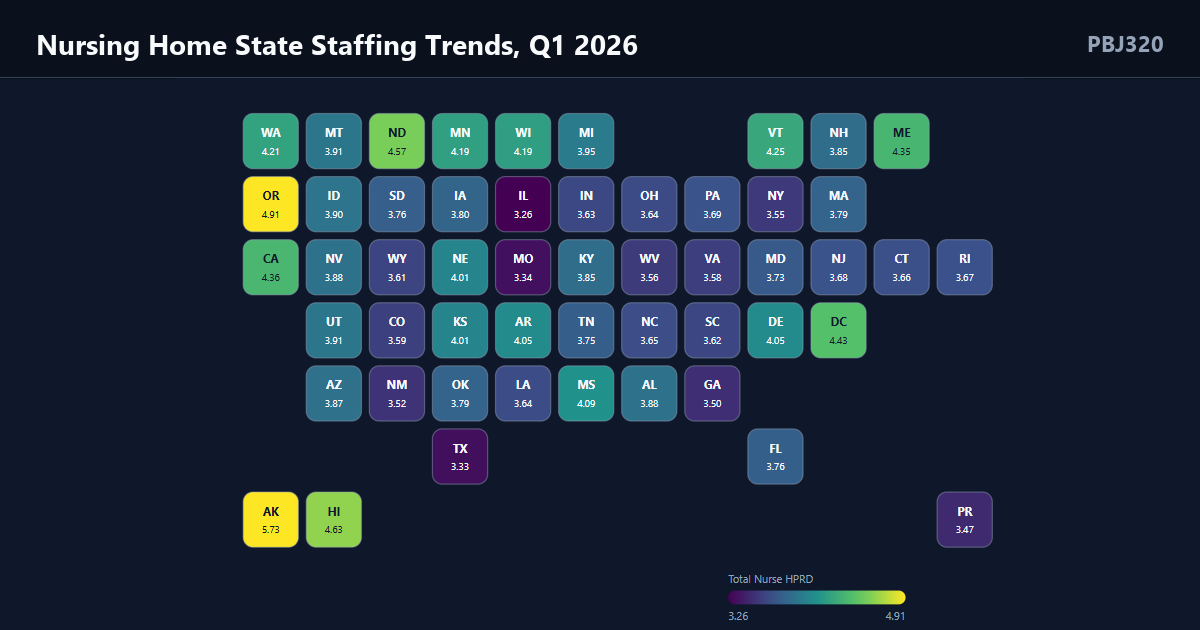
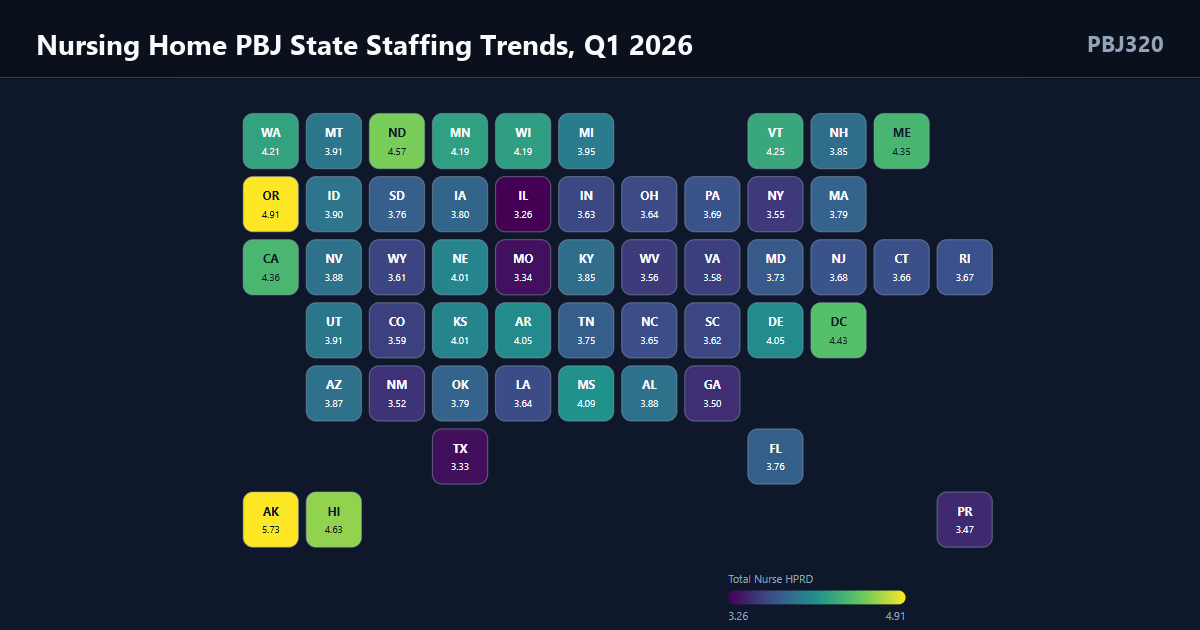
Polish rankings glance brand and copy
Move PBJ320 badge to the movers glance head with the share title, restore plain rankings table head, tighten the context note and SFF CTA, and refresh the OG PNG (?v=3) plus theme cache.

Changed region(s): [[0.185, 0.0302, 0.5858, 0.0905]]

diff --git a/insights_posts/_rankings_table_q1_2026.fragment.html b/insights_posts/_rankings_table_q1_2026.fragment.html
@@ -1,10 +1,9 @@
 <div class="insight-data-section" id="state-rankings">
   <div class="insight-data-section__head">
-    <h2 class="insight-data-section__title">Nursing Home State Staffing Trends, Q1 2026</h2>
-    <span class="insight-data-section__brand">PBJ320</span>
+    <h2 class="insight-data-section__title">State staffing rankings, Q1 2026</h2>
   </div>
   <aside class="insight-note insight-note--inline" role="note">
-    <p class="insight-note__body"><strong>Note:</strong> State staffing data is thin without context. Statewide HPRD should be used in context of other metrics including demographics, geography, and policy. For more, read “<a href="https://320insight.substack.com/p/2025-us-nursing-home-staffing-rankings">Why staffing HPRD is the batting average of nursing homes</a>”.</p>
+    <p class="insight-note__body"><strong>Note:</strong> State staffing data should be viewed in context of other metrics including demographics, geography, and policy. For more, read “<a href="https://320insight.substack.com/p/2025-us-nursing-home-staffing-rankings">Why staffing HPRD is the batting average of nursing homes</a>”.</p>
   </aside>
   <div class="insight-rankings" id="insight-rankings-q1-2026" data-quarter="2026Q1">
   <div class="insight-rankings__toolbar">

diff --git a/insights-theme.css b/insights-theme.css
@@ -2397,9 +2397,12 @@ html.pbj-insights-article .article-body > ul.insight-intro__list {
   padding-top: 0;
   border-top: none;
 }
-.insight-glance > .insight-data-section__title {
+.insight-glance > .insight-data-section__head {
+  margin-bottom: 0.55rem;
+}
+.insight-glance .insight-data-section__title {
   margin-top: 0 !important;
-  margin-bottom: 0.55rem !important;
+  margin-bottom: 0 !important;
 }
 .insight-rank-caveat {
   margin: 0 0 1rem;
@@ -2572,14 +2575,17 @@ html.pbj-insights-article .article-body > ul.insight-intro__list {
 .insight-data-section__brand {
   flex: 0 0 auto;
   margin: 0;
-  padding: 0 0 0.15rem;
+  padding: 0.18rem 0.55rem;
   font-family: "IBM Plex Sans", system-ui, sans-serif;
-  font-size: clamp(0.78rem, 1.6vw, 0.92rem);
+  font-size: clamp(0.72rem, 1.5vw, 0.82rem);
   font-weight: 600;
   letter-spacing: 0.04em;
-  color: #64748b;
+  color: #475569;
   line-height: 1.2;
   white-space: nowrap;
+  border: 1px solid rgba(10, 15, 26, 0.1);
+  border-radius: 999px;
+  background: #f8fafc;
 }
 .insight-data-section__sub {
   margin: 0.35rem 0 0;

diff --git a/scripts/assemble_rankings_insights_post.py b/scripts/assemble_rankings_insights_post.py
@@ -26,7 +26,7 @@ hideFromHub: false
 date: {PUBLISH_DATE}
 author: Eric Goldwein
 previewImage: /insights-rankings-state-hprd-tilemap-q1-2026.svg
-ogImage: /insights-rankings-state-hprd-tilemap-q1-2026-og.png?v=2
+ogImage: /insights-rankings-state-hprd-tilemap-q1-2026-og.png?v=3
 showCover: false
 readTime: 5 min read
 category: pbj
@@ -80,7 +80,7 @@ INTRO = f"""
 
 <p>In Q1 2026, CMS reported PBJ data for <strong>{NATIONAL_FACILITIES}</strong> facilities with a nationwide ratio of <strong>{NATIONAL_TOTAL_HPRD} Total Nurse hours per resident day (HPRD)</strong>, including <strong>{NATIONAL_RN_HPRD} RN</strong> and <strong>{NATIONAL_AIDE_HPRD} nurse aide</strong> HPRD.</p>
 
-<p>This page shows how states have fared, not just vs. each other, but vs. themselves over time. <strong><a href="/">Head to PBJ320</a></strong> to dive deeper into facility, state, and entity-level data, and <a href="/sff">click here</a> to see the list of Special Focus Facilities.</p>
+<p>This page shows how states have fared, not just vs. each other, but vs. themselves over time. <strong><a href="/">Head to PBJ320</a></strong> to dive deeper into facility, state, and entity-level data, and check out the <a href="/sff">Special Focus Facilities list here</a>.</p>
 
 <hr class="insight-section-rule" />
 
@@ -88,7 +88,10 @@ INTRO = f"""
 
 GLANCE_OPEN = """
 <section class="insight-glance" aria-labelledby="insight-glance-title">
-  <h2 id="insight-glance-title" class="insight-data-section__title">State staffing picture, Q1 2026</h2>
+  <div class="insight-data-section__head">
+    <h2 id="insight-glance-title" class="insight-data-section__title">Nursing Home PBJ State Staffing Trends, Q1 2026</h2>
+    <span class="insight-data-section__brand" title="PBJ320">PBJ320</span>
+  </div>
 
 """
 

diff --git a/scripts/build_insights_rankings_table_q1_2026.py b/scripts/build_insights_rankings_table_q1_2026.py
@@ -446,11 +446,10 @@ def main() -> None:
 
     table_html = f"""<div class="insight-data-section" id="state-rankings">
   <div class="insight-data-section__head">
-    <h2 class="insight-data-section__title">Nursing Home State Staffing Trends, Q1 2026</h2>
-    <span class="insight-data-section__brand">PBJ320</span>
+    <h2 class="insight-data-section__title">State staffing rankings, Q1 2026</h2>
   </div>
   <aside class="insight-note insight-note--inline" role="note">
-    <p class="insight-note__body"><strong>Note:</strong> State staffing data is thin without context. Statewide HPRD should be used in context of other metrics including demographics, geography, and policy. For more, read “<a href="https://320insight.substack.com/p/2025-us-nursing-home-staffing-rankings">Why staffing HPRD is the batting average of nursing homes</a>”.</p>
+    <p class="insight-note__body"><strong>Note:</strong> State staffing data should be viewed in context of other metrics including demographics, geography, and policy. For more, read “<a href="https://320insight.substack.com/p/2025-us-nursing-home-staffing-rankings">Why staffing HPRD is the batting average of nursing homes</a>”.</p>
   </aside>
   <div class="insight-rankings" id="insight-rankings-q1-2026" data-quarter="2026Q1">
   <div class="insight-rankings__toolbar">

diff --git a/scripts/build_insights_rankings_og_image_q1_2026.py b/scripts/build_insights_rankings_og_image_q1_2026.py
@@ -21,7 +21,7 @@ SVG = ROOT / "insights-rankings-state-hprd-tilemap-q1-2026.svg"
 OUT = ROOT / "insights-rankings-state-hprd-tilemap-q1-2026-og.png"
 OG_W, OG_H = 1200, 630
 MAP_W, MAP_H = 860, 560
-TITLE = "Nursing Home State Staffing Trends, Q1 2026"
+TITLE = "Nursing Home PBJ State Staffing Trends, Q1 2026"
 BRAND = "PBJ320"
 BG = (15, 23, 42)
 HEAD_H = 78

diff --git a/app.py b/app.py
@@ -3966,7 +3966,7 @@ _INSIGHTS_NATIVE_PAGE_TEMPLATE = (
   gtag('js', new Date());
   gtag('config', 'G-NDPVY6TWBK');
   </script>
-  <link rel="stylesheet" href="/insights-theme.css?v=55">
+  <link rel="stylesheet" href="/insights-theme.css?v=56">
   """
     + audience_assets_head()
     + """

diff --git a/insights_posts/2026-us-nursing-home-staffing-rankings.md b/insights_posts/2026-us-nursing-home-staffing-rankings.md
@@ -7,7 +7,7 @@ hideFromHub: false
 date: 2026-08-04
 author: Eric Goldwein
 previewImage: /insights-rankings-state-hprd-tilemap-q1-2026.svg
-ogImage: /insights-rankings-state-hprd-tilemap-q1-2026-og.png?v=2
+ogImage: /insights-rankings-state-hprd-tilemap-q1-2026-og.png?v=3
 showCover: false
 readTime: 5 min read
 category: pbj
@@ -59,13 +59,16 @@ referenceUrl: "https://320insight.substack.com/p/2025-us-nursing-home-staffing-r
 
 <p>In Q1 2026, CMS reported PBJ data for <strong>14,487</strong> facilities with a nationwide ratio of <strong>3.75 Total Nurse hours per resident day (HPRD)</strong>, including <strong>0.62 RN</strong> and <strong>2.26 nurse aide</strong> HPRD.</p>
 
-<p>This page shows how states have fared, not just vs. each other, but vs. themselves over time. <strong><a href="/">Head to PBJ320</a></strong> to dive deeper into facility, state, and entity-level data, and <a href="/sff">click here</a> to see the list of Special Focus Facilities.</p>
+<p>This page shows how states have fared, not just vs. each other, but vs. themselves over time. <strong><a href="/">Head to PBJ320</a></strong> to dive deeper into facility, state, and entity-level data, and check out the <a href="/sff">Special Focus Facilities list here</a>.</p>
 
 <hr class="insight-section-rule" />
 
 
 <section class="insight-glance" aria-labelledby="insight-glance-title">
-  <h2 id="insight-glance-title" class="insight-data-section__title">State staffing picture, Q1 2026</h2>
+  <div class="insight-data-section__head">
+    <h2 id="insight-glance-title" class="insight-data-section__title">Nursing Home PBJ State Staffing Trends, Q1 2026</h2>
+    <span class="insight-data-section__brand" title="PBJ320">PBJ320</span>
+  </div>
 
 <div class="insight-rank-board" id="state-rank-highlights">
   <div class="insight-rank-split">
@@ -79,11 +82,10 @@ referenceUrl: "https://320insight.substack.com/p/2025-us-nursing-home-staffing-r
 
 <div class="insight-data-section" id="state-rankings">
   <div class="insight-data-section__head">
-    <h2 class="insight-data-section__title">Nursing Home State Staffing Trends, Q1 2026</h2>
-    <span class="insight-data-section__brand">PBJ320</span>
+    <h2 class="insight-data-section__title">State staffing rankings, Q1 2026</h2>
   </div>
   <aside class="insight-note insight-note--inline" role="note">
-    <p class="insight-note__body"><strong>Note:</strong> State staffing data is thin without context. Statewide HPRD should be used in context of other metrics including demographics, geography, and policy. For more, read “<a href="https://320insight.substack.com/p/2025-us-nursing-home-staffing-rankings">Why staffing HPRD is the batting average of nursing homes</a>”.</p>
+    <p class="insight-note__body"><strong>Note:</strong> State staffing data should be viewed in context of other metrics including demographics, geography, and policy. For more, read “<a href="https://320insight.substack.com/p/2025-us-nursing-home-staffing-rankings">Why staffing HPRD is the batting average of nursing homes</a>”.</p>
   </aside>
   <div class="insight-rankings" id="insight-rankings-q1-2026" data-quarter="2026Q1">
   <div class="insight-rankings__toolbar">
